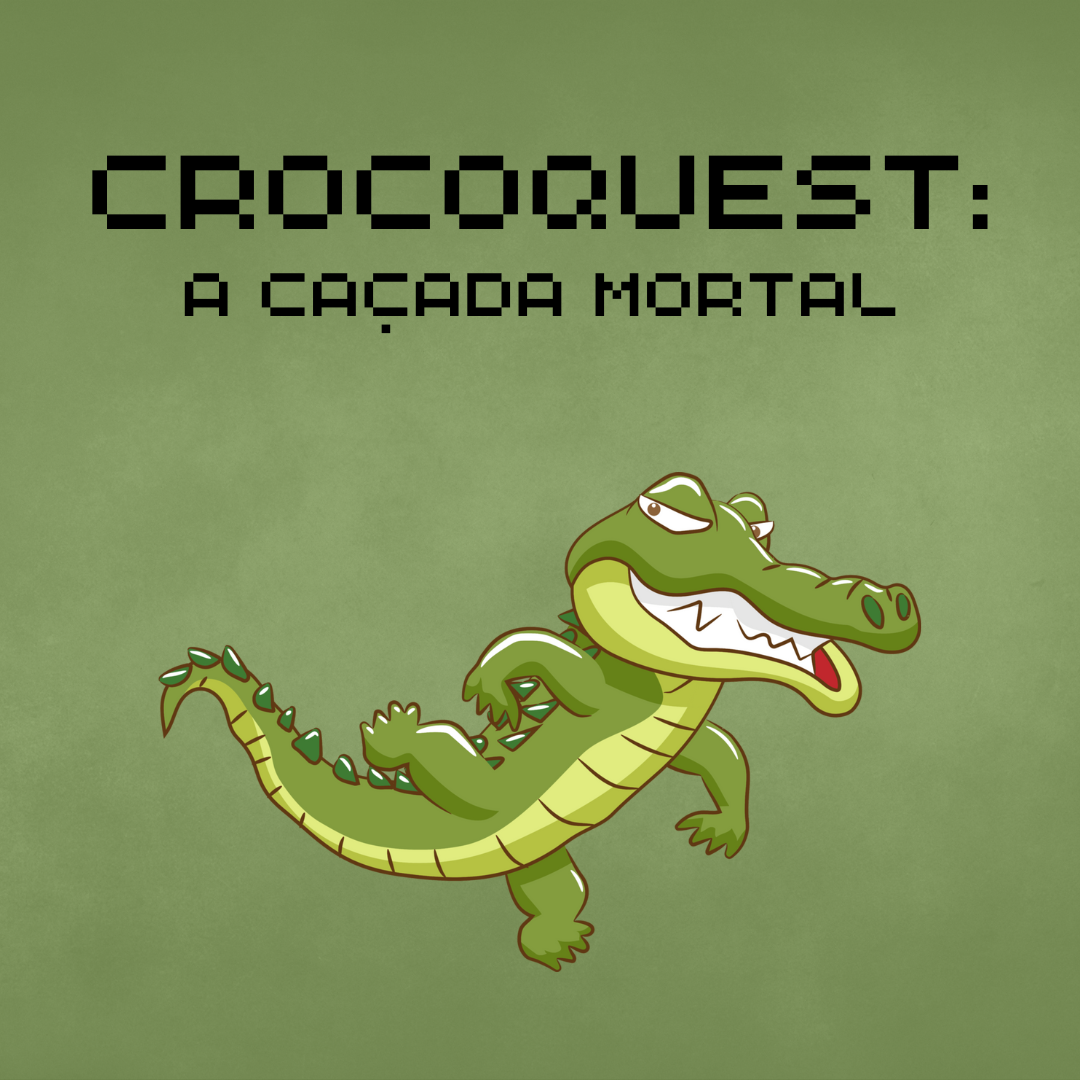
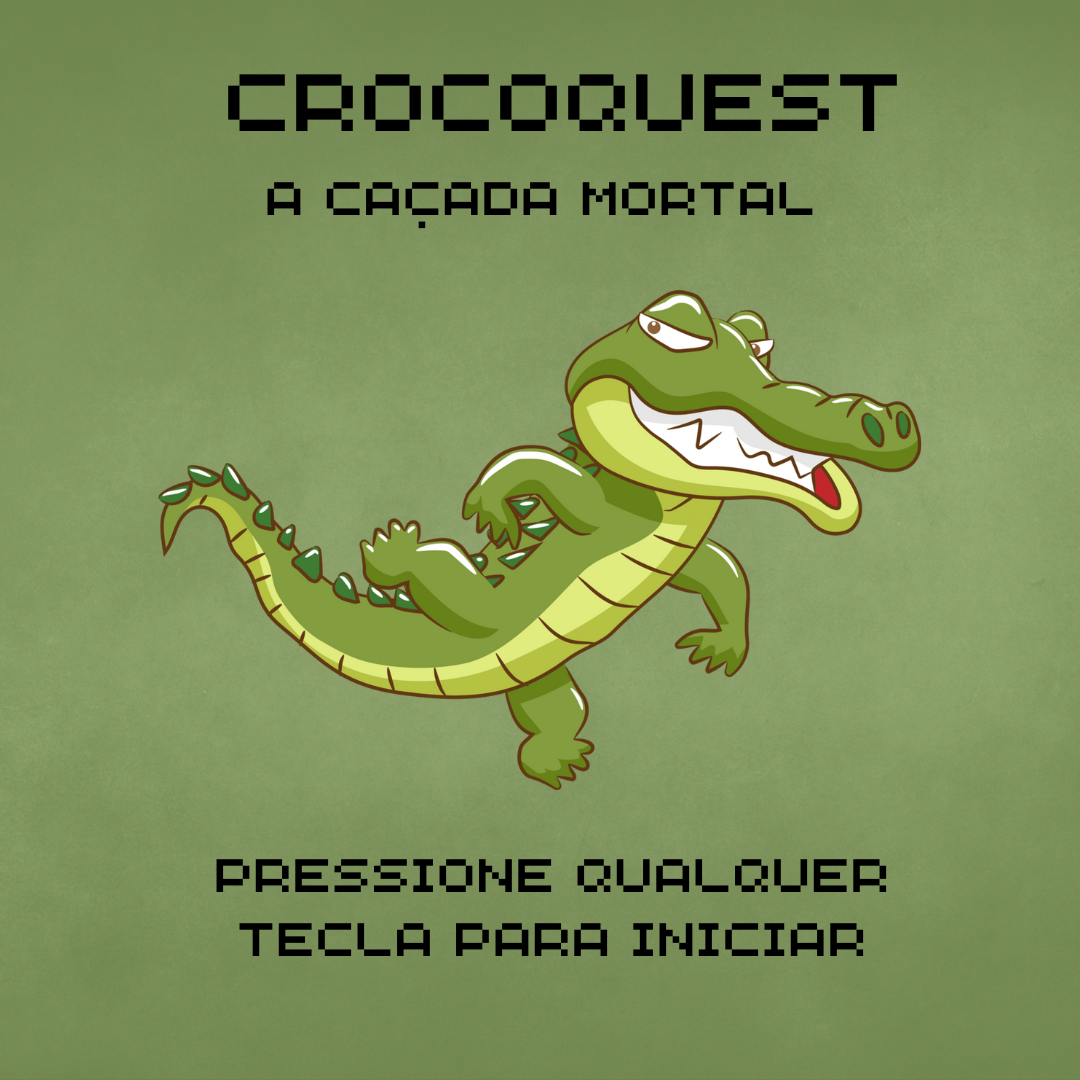
Imagens Iniciais + Gameover

diff --git a/game_over_screen.py b/game_over_screen.py
@@ -10,7 +10,8 @@ def game_over_screen(screen):
     clock = pygame.time.Clock()
 
     # Carrega o fundo da tela inicial
-    background = pygame.image.load(path.join(IMG_DIR, 'Crocodilo_final.jpg')).convert()
+    background = pygame.image.load(path.join(IMG_DIR, 'Crocodilo_final.png')).convert()
+    background = pygame.transform.scale(background, (900, 700))
     background_rect = background.get_rect()
 
     running = True

diff --git a/init_screen.py b/init_screen.py
@@ -11,6 +11,7 @@ def init_screen(screen):
 
     # Carrega o fundo da tela inicial
     background = pygame.image.load(path.join(IMG_DIR, 'Tela_Inicial.png')).convert()
+    background = pygame.transform.scale(background, (900, 700))
     background_rect = background.get_rect()
 
     running = True

diff --git a/pygame2.py b/pygame2.py
@@ -13,7 +13,7 @@ pygame.mixer.init()
 
 # ----- Gera tela principal
 window = pygame.display.set_mode((WIDTH, HEIGHT))
-pygame.display.set_caption('Navinha')
+pygame.display.set_caption('CrocoQuest: A Caçada Mortal')
 
 state = INIT
 while state != QUIT:
